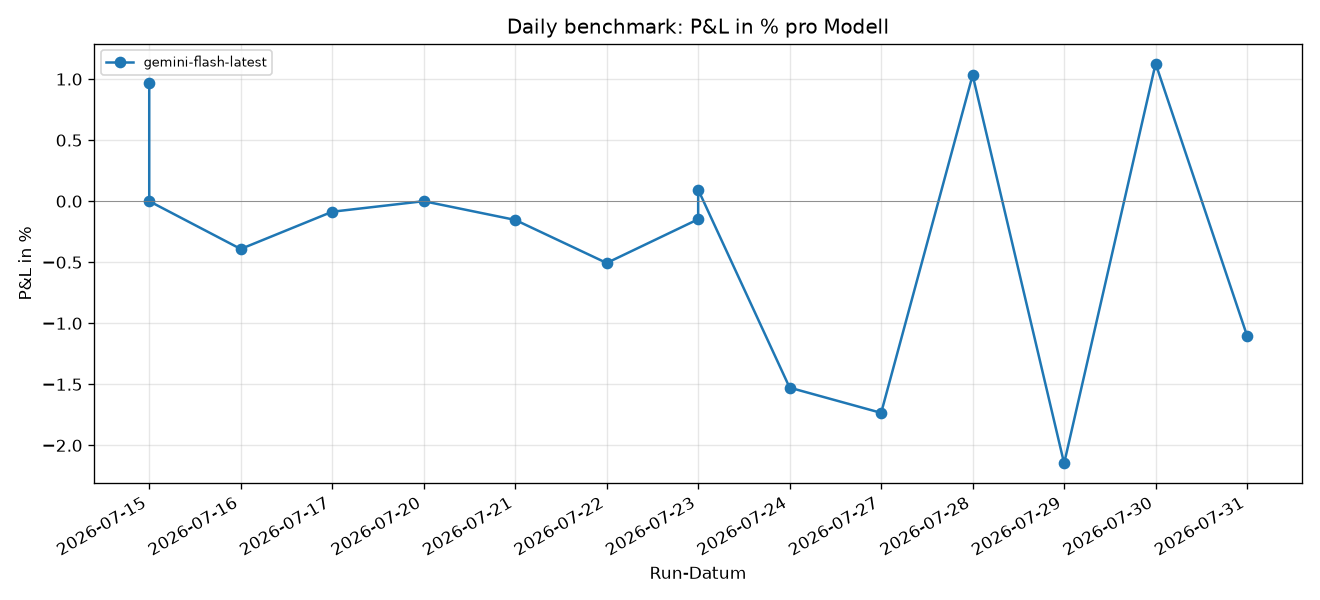
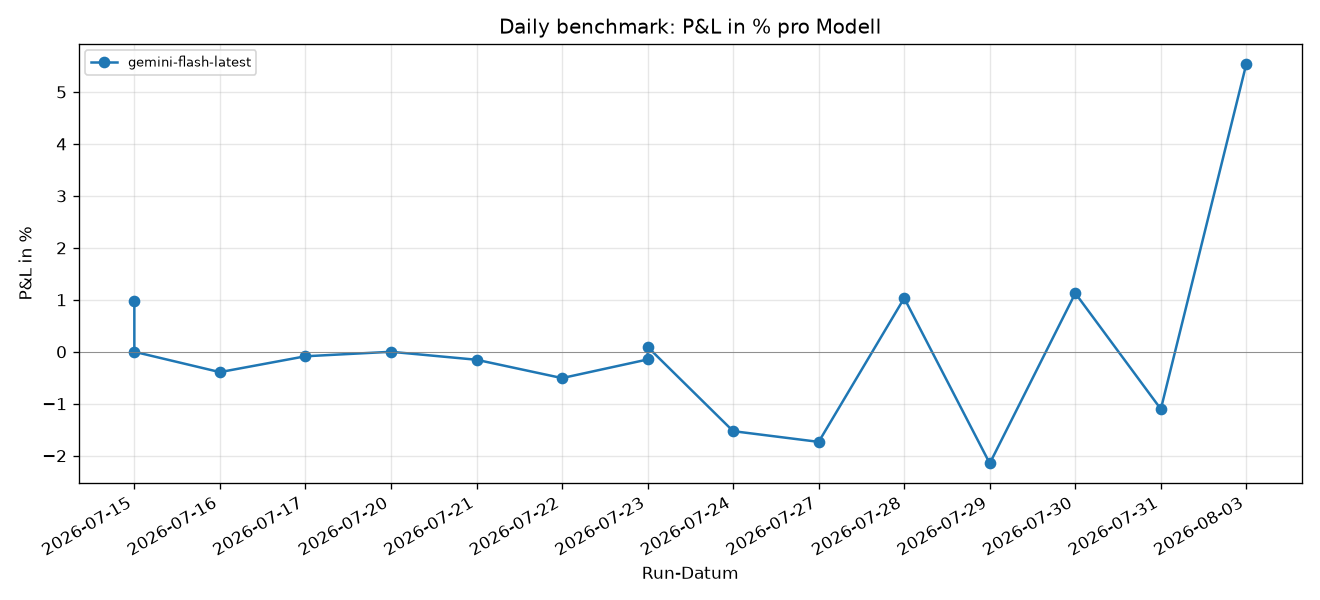
gemini benchmark: 2026-08-03 [skip ci]

diff --git a/docs/index.html b/docs/index.html
@@ -19,17 +19,17 @@
   <h1>AgentTrader — täglicher Modell-Benchmark</h1>
   <p>
     Automatisch generiert aus <code>data/leaderboard.csv</code>.
-    Insgesamt 15 Läufe, 1 Modelle,
-    Zeitraum 2026-07-15 bis 2026-07-31.
+    Insgesamt 16 Läufe, 1 Modelle,
+    Zeitraum 2026-07-15 bis 2026-08-03.
   </p>
 
-  <h2>Letzter Lauf (2026-07-31)</h2>
+  <h2>Letzter Lauf (2026-08-03)</h2>
   <table>
     <thead><tr>
       <th>Modell</th><th>Prompt</th><th>Trades</th>
       <th>Start</th><th>Ende</th><th>P&L %</th><th>Audit</th>
     </tr></thead>
-    <tbody><tr><td>gemini-flash-latest</td><td>v6</td><td>3</td><td>10000.00</td><td>9889.69</td><td><span class="neg">-1.10 %</span></td><td>✔</td></tr></tbody>
+    <tbody><tr><td>gemini-flash-latest</td><td>v6</td><td>2</td><td>10000.00</td><td>10554.64</td><td><span class="pos">+5.55 %</span></td><td>✔</td></tr></tbody>
   </table>
 
   <h2>Aggregat (alle Läufe)</h2>
@@ -38,7 +38,7 @@
       <th>Modell</th><th>Runs</th><th>Ø P&L %</th>
       <th>Best %</th><th>Worst %</th><th>Ø Trades</th>
     </tr></thead>
-    <tbody><tr><td>gemini-flash-latest</td><td>15</td><td><span class="neg">-0.31 %</span></td><td><span class="pos">+1.13 %</span></td><td><span class="neg">-2.15 %</span></td><td>2.3</td></tr></tbody>
+    <tbody><tr><td>gemini-flash-latest</td><td>16</td><td><span class="pos">+0.06 %</span></td><td><span class="pos">+5.55 %</span></td><td><span class="neg">-2.15 %</span></td><td>2.3</td></tr></tbody>
   </table>
 
   <h2>Verlauf</h2>
